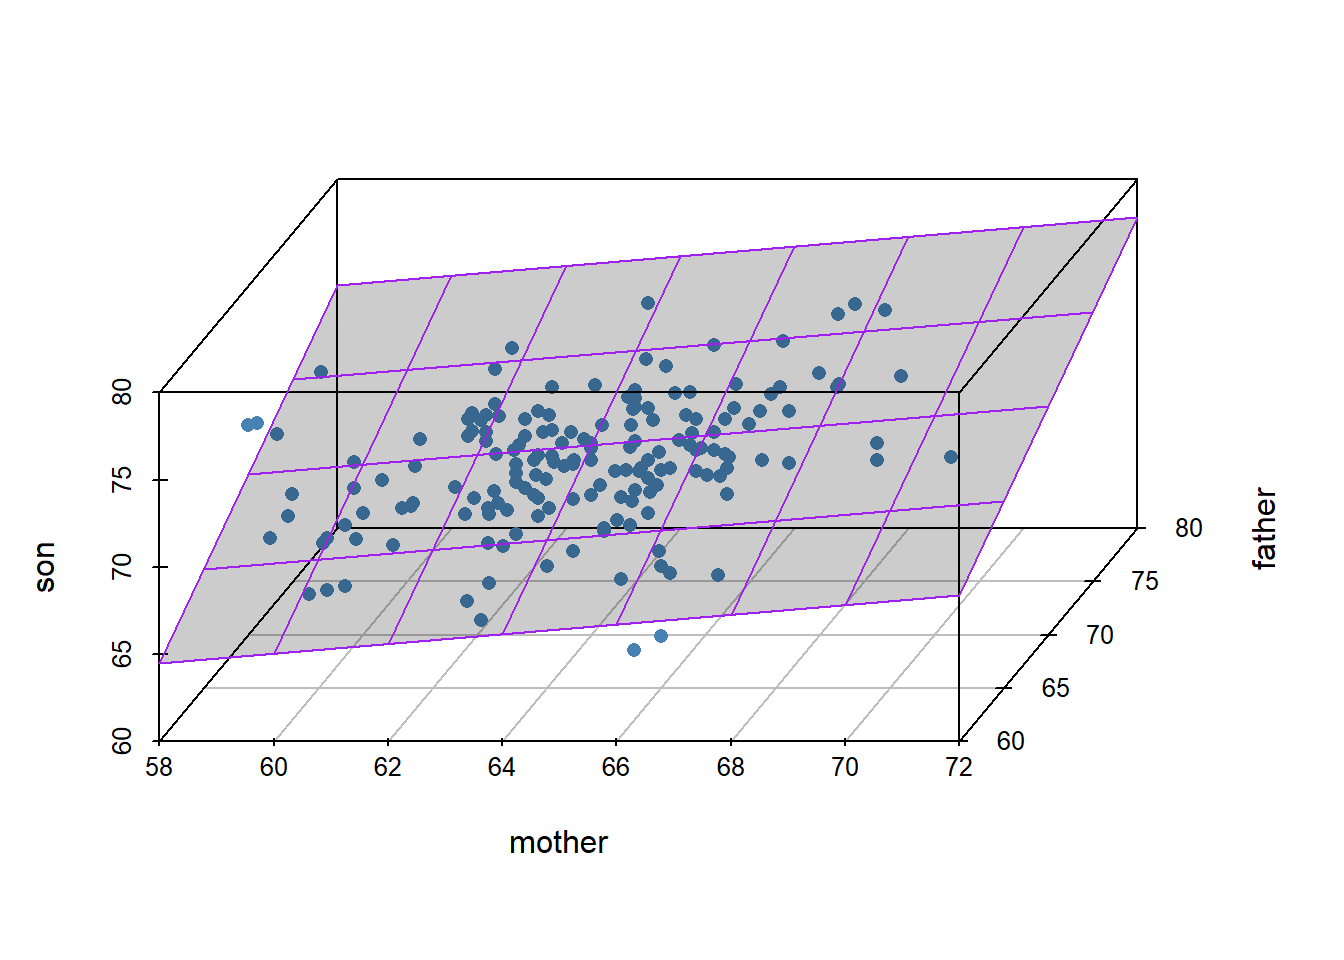
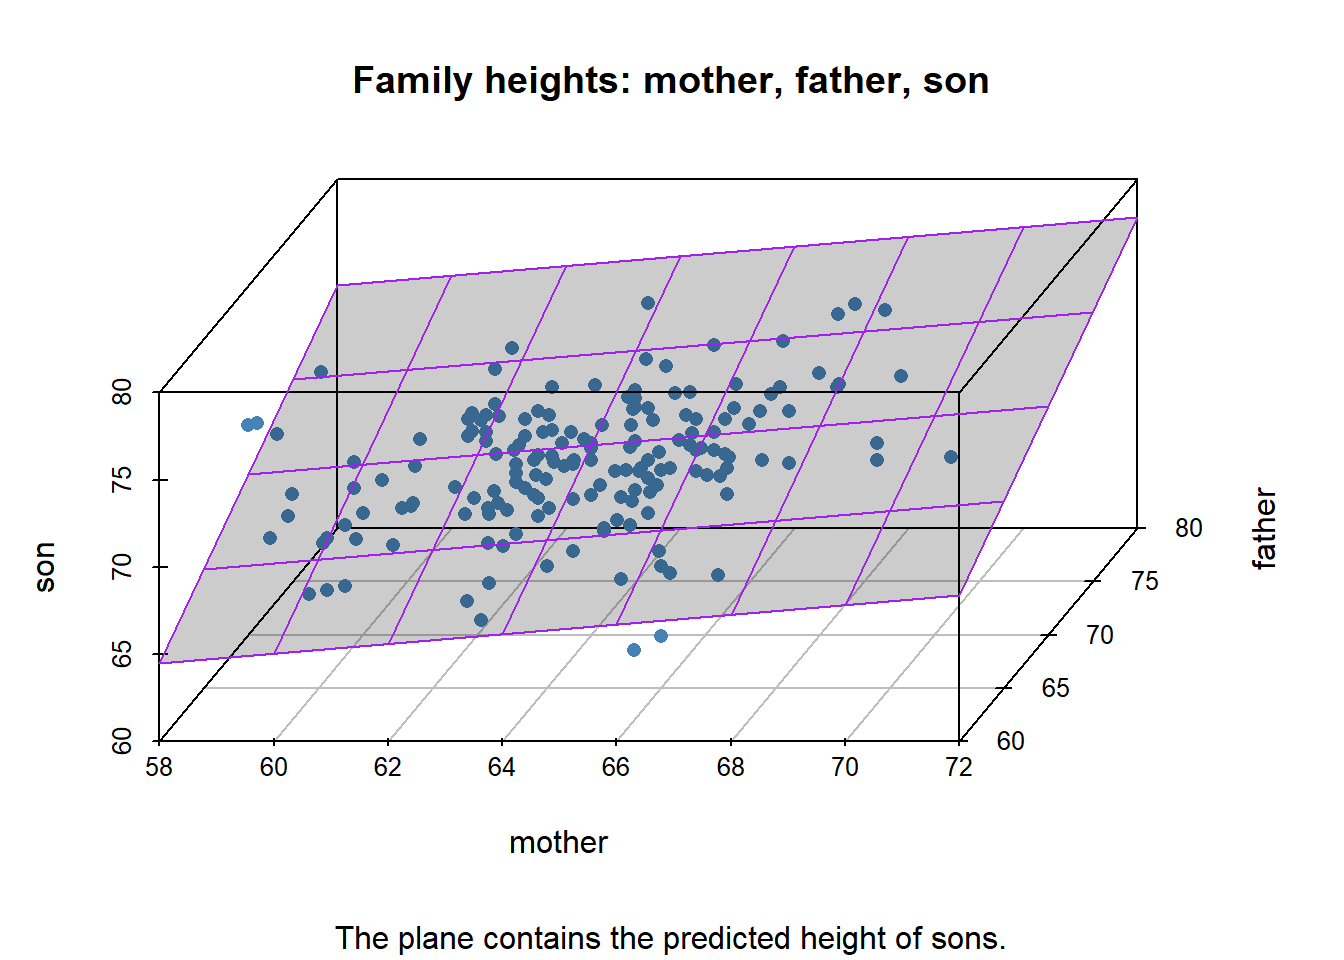
New material in section 6.1.3: Geometry.

Changed region(s): [[0.25, 0.0625, 0.75, 0.125], [0.25, 0.9688, 0.75, 1.0]]

diff --git a/_book/la-intro.html b/_book/la-intro.html
@@ -392,7 +392,7 @@ window.Quarto = {
     <div>
     <div class="quarto-title-meta-heading">Published</div>
     <div class="quarto-title-meta-contents">
-      <p class="date">23:56 Tue 21-Oct-2025</p>
+      <p class="date">10:20 Wed 22-Oct-2025</p>
     </div>
   </div>
   
@@ -405,7 +405,7 @@ window.Quarto = {
 
 
 <hr>
-<p>Vectors and matrices are the central objects of linear algebra. And central to data science and machine learning is the notion of a <em>data matrix</em>, in which each row is composed of different types of values that represent a single case of data. For example, a single row of a data matrix might represent the recorded characteristics of an individual participant, item, or unit in some study. In contrast, each column (known as a <em>feature vector</em> or <em>data variable</em>) represents multiple instances of just one of these prescribed types of values. <a href="#fn1" class="footnote-ref" id="fnref1" role="doc-noteref"><sup>1</sup></a> Let’s consider some examples.</p>
+<p>Vectors and matrices are the central objects of linear algebra. And central to data science and machine learning is the notion of a <em>data matrix</em>, in which each row is composed of different types of values that represent a single case of data. For example, a single row of a data matrix might represent the recorded characteristics of an individual participant, item, or unit in some study. In contrast, each column (known as a <em>feature vector</em> or <em>data variable</em>) represents multiple instances of just one of these prescribed types of value. <a href="#fn1" class="footnote-ref" id="fnref1" role="doc-noteref"><sup>1</sup></a> Let’s consider some examples.</p>
 <section id="data-examples" class="level2" data-number="6.1">
 <h2 data-number="6.1" class="anchored" data-anchor-id="data-examples"><span class="header-section-number">6.1</span> Data Examples</h2>
 <section id="heights-of-parents-and-oldest-child" class="level3" data-number="6.1.1">
@@ -416,12 +416,12 @@ window.Quarto = {
 <div id="tbl-galton-3d" class="cell quarto-float quarto-figure quarto-figure-center anchored">
 <figure class="quarto-float quarto-float-tbl figure">
 <figcaption class="quarto-float-caption-top quarto-float-caption quarto-float-tbl" id="tbl-galton-3d-caption-0ceaefa1-69ba-4598-a22c-09a6ac19f8ca">
-Table&nbsp;6.1: Galton’s heights in inches of (father, mother, oldest child)
+Table&nbsp;6.1: Family heights in inches: father, mother, oldest child
 </figcaption>
 <div aria-describedby="tbl-galton-3d-caption-0ceaefa1-69ba-4598-a22c-09a6ac19f8ca">
 <div class="cell-output-display">
 <table class="do-not-create-environment cell caption-top table table-sm table-striped small">
-<caption>Heights of (father, mother, oldest child)</caption>
+<caption>Family heights: father, mother, oldest child</caption>
 <thead>
 <tr class="header">
 <th style="text-align: left;">family</th>
@@ -484,13 +484,13 @@ Table&nbsp;6.1: Galton’s heights in inches of (father, mother, oldest child)
 <p>The figure below represents all the families, with the gender of the oldest child distinguished by color: red for daughters and blue for sons.</p>
 <div class="cell">
 <div class="cell-output-display">
-<div id="fig-g-mfc-scat3d" class="quarto-float quarto-figure quarto-figure-center anchored">
+<div id="fig-mfc-scat3d" class="quarto-float quarto-figure quarto-figure-center anchored">
 <figure class="quarto-float quarto-float-fig figure">
-<div aria-describedby="fig-g-mfc-scat3d-caption-0ceaefa1-69ba-4598-a22c-09a6ac19f8ca">
-<img src="la-intro_files/figure-html/fig-g-mfc-scat3d-1.png" class="img-fluid figure-img" width="672">
+<div aria-describedby="fig-mfc-scat3d-caption-0ceaefa1-69ba-4598-a22c-09a6ac19f8ca">
+<img src="la-intro_files/figure-html/fig-mfc-scat3d-1.png" class="img-fluid figure-img" width="672">
 </div>
-<figcaption class="quarto-float-caption-bottom quarto-float-caption quarto-float-fig" id="fig-g-mfc-scat3d-caption-0ceaefa1-69ba-4598-a22c-09a6ac19f8ca">
-Figure&nbsp;6.1: (mother, father, child) heights, with daughters shown in red
+<figcaption class="quarto-float-caption-bottom quarto-float-caption quarto-float-fig" id="fig-mfc-scat3d-caption-0ceaefa1-69ba-4598-a22c-09a6ac19f8ca">
+Figure&nbsp;6.1: Height of oldest child: daughters (red), sons (blue)
 </figcaption>
 </figure>
 </div>
@@ -512,16 +512,16 @@ Figure&nbsp;6.1: (mother, father, child) heights, with daughters shown in red
   f &amp;= \text{height of father}
 \end{align}
 \qquad(6.2)\]</span></span></p>
-<p>This equation represents a plane in 3-dimensional space. Using least-squares regression to estimate the coefficients <span class="math inline">\((\beta_0, \beta_m, \beta_f)\)</span>, we obtain a plane (<a href="#fig-g-mfs-scat3d" class="quarto-xref">Figure&nbsp;<span>6.2</span></a>) that gives the best linear approximation <span class="math inline">\((\hat{s})\)</span> to the son’s height for a given pair of parent heights <span class="math inline">\((m, f)\)</span>. <a href="#fn2" class="footnote-ref" id="fnref2" role="doc-noteref"><sup>2</sup></a></p>
+<p>Each set of coefficient values determines some plane in 3-dimensional space. The coefficients <span class="math inline">\((\hat{\beta}_0, \hat{\beta}_m, \hat{\beta}_f)\)</span> obtained by linear regression determines the plane (<a href="#fig-mfs-scat3d" class="quarto-xref">Figure&nbsp;<span>6.2</span></a>) that gives the best linear approximation <span class="math inline">\((\hat{s})\)</span> to the son’s height for a given pair of parent heights <span class="math inline">\((m, f)\)</span>. <a href="#fn2" class="footnote-ref" id="fnref2" role="doc-noteref"><sup>2</sup></a></p>
 <div class="cell">
 <div class="cell-output-display">
-<div id="fig-g-mfs-scat3d" class="quarto-float quarto-figure quarto-figure-center anchored">
+<div id="fig-mfs-scat3d" class="quarto-float quarto-figure quarto-figure-center anchored">
 <figure class="quarto-float quarto-float-fig figure">
-<div aria-describedby="fig-g-mfs-scat3d-caption-0ceaefa1-69ba-4598-a22c-09a6ac19f8ca">
-<img src="la-intro_files/figure-html/fig-g-mfs-scat3d-1.png" class="img-fluid figure-img" width="672">
+<div aria-describedby="fig-mfs-scat3d-caption-0ceaefa1-69ba-4598-a22c-09a6ac19f8ca">
+<img src="la-intro_files/figure-html/fig-mfs-scat3d-1.png" class="img-fluid figure-img" width="672">
 </div>
-<figcaption class="quarto-float-caption-bottom quarto-float-caption quarto-float-fig" id="fig-g-mfs-scat3d-caption-0ceaefa1-69ba-4598-a22c-09a6ac19f8ca">
-Figure&nbsp;6.2: Observed (point) and predicted (plane) height of son given (mother, father) heights
+<figcaption class="quarto-float-caption-bottom quarto-float-caption quarto-float-fig" id="fig-mfs-scat3d-caption-0ceaefa1-69ba-4598-a22c-09a6ac19f8ca">
+Figure&nbsp;6.2: Son’s height given (mother, father) heights: predicted (plane) and observed (point)
 </figcaption>
 </figure>
 </div>
@@ -1034,7 +1034,7 @@ Figure&nbsp;6.3: Example images of handwritten digits from the MNIST dataset
 \end{align}
 \qquad(6.19)\]</span></span></p>
 <p>Each of the elements of <a href="#eq-generic-lm" class="quarto-xref">Equation&nbsp;<span>6.19</span></a> has alternative names, including the following. <a href="#fn8" class="footnote-ref" id="fnref8" role="doc-noteref"><sup>8</sup></a></p>
-<p><span id="eq-generic-lm-2"><span class="math display">\[
+<p><span id="eq-generic-lm-terms"><span class="math display">\[
 \begin{align}
   y &amp;= \text{a } \textit{response, target,} \text{ or } \textit{labeling}  \text{ variable} \\
   X &amp;= \text{columns of } \textit{explanatory, predictor,} \text{ or } \textit{feature}  \text{ variables} \\
@@ -1055,7 +1055,39 @@ Figure&nbsp;6.3: Example images of handwritten digits from the MNIST dataset
 </section>
 <section id="geometry" class="level2" data-number="6.3">
 <h2 data-number="6.3" class="anchored" data-anchor-id="geometry"><span class="header-section-number">6.3</span> Geometry</h2>
-<p>We’ll see the problem from both angles, then focus on where the mathematics actually happens.</p>
+<p>In this section we’ll discuss the example of family heights, in particular the linear regression of the son’s height on the heights of the mother and father. We’ll discuss the geometry of the least-squares solution as a reference point for the remainder of this chapter.</p>
+<p>Here’s the linear regression problem in matrix format.</p>
+<p><span id="eq-generic-lm-mat"><span class="math display">\[
+\begin{align}
+  y_\bullet &amp;= X_{_\bullet, _\bullet} \; \beta_\bullet \; + \; \epsilon_\bullet
+\end{align}
+\qquad(6.21)\]</span></span></p>
+<p>where</p>
+<p><span id="eq-generic-lm-2"><span class="math display">\[
+\begin{align}
+  y_\bullet &amp;= \text{heights of sons } = s_\bullet \\
+  m_\bullet &amp;= \text{heights of mothers } \\
+  f_\bullet &amp;= \text{heights of fathers } \\
+  X_{_\bullet, _\bullet} &amp;= \text{feature matrix} = (1_\bullet, m_\bullet, f_\bullet) \\
+  \beta_\bullet &amp;= \text{coefficient vector} = (\beta_0, \beta_1, \beta_2)^\top \\
+  \epsilon_\bullet &amp;= \text{residual vector}
+\end{align}
+\qquad(6.22)\]</span></span></p>
+<p>Consider the least-squares estimate <span class="math inline">\(\hat{\beta}_\bullet\)</span> and the consequent predicted height <span class="math inline">\(\hat{y}_\bullet\)</span> of the son. <a href="#fig-smf-smpl" class="quarto-xref">Figure&nbsp;<span>6.4</span></a> is based on a random sample of 20 families and shows the heights of sons on the vertical axis, along with their vertical displacement (residual) from the predicted value lying on the plane of predictions.</p>
+<div class="cell">
+<div class="cell-output-display">
+<div id="fig-smf-smpl" class="quarto-float quarto-figure quarto-figure-center anchored">
+<figure class="quarto-float quarto-float-fig figure">
+<div aria-describedby="fig-smf-smpl-caption-0ceaefa1-69ba-4598-a22c-09a6ac19f8ca">
+<img src="la-intro_files/figure-html/fig-smf-smpl-1.png" class="img-fluid figure-img" width="672">
+</div>
+<figcaption class="quarto-float-caption-bottom quarto-float-caption quarto-float-fig" id="fig-smf-smpl-caption-0ceaefa1-69ba-4598-a22c-09a6ac19f8ca">
+Figure&nbsp;6.4: Sampled son heights: residual = observed - predicted
+</figcaption>
+</figure>
+</div>
+</div>
+</div>
 <section id="least-squares-two-perspectives" class="level3" data-number="6.3.1">
 <h3 data-number="6.3.1" class="anchored" data-anchor-id="least-squares-two-perspectives"><span class="header-section-number">6.3.1</span> Least Squares: Two Perspectives</h3>
 </section>

diff --git a/_book/conditioning.html b/_book/conditioning.html
@@ -6,7 +6,7 @@
 
 <meta name="viewport" content="width=device-width, initial-scale=1.0, user-scalable=yes">
 
-<meta name="author" content="Send comments to: Tony T (adthral)">
+<meta name="author" content="Send comments to: Tony T (tthrall)">
 
 <title>2&nbsp; Conditional Distributions – EDA for Machine Learning</title>
 <style>
@@ -205,7 +205,7 @@ window.Quarto = {
           <li class="sidebar-item">
   <div class="sidebar-item-container"> 
   <a href="./la-intro.html" class="sidebar-item-text sidebar-link">
- <span class="menu-text"><span class="chapter-number">6</span>&nbsp; <span class="chapter-title">Some Linear Algebra</span></span></a>
+ <span class="menu-text"><span class="chapter-number">6</span>&nbsp; <span class="chapter-title">Linear Algebra for Fitting Models to Data</span></span></a>
   </div>
 </li>
           <li class="sidebar-item">
@@ -370,7 +370,6 @@ window.Quarto = {
 <header id="title-block-header" class="quarto-title-block default"><nav class="quarto-page-breadcrumbs quarto-title-breadcrumbs d-none d-lg-block" aria-label="breadcrumb"><ol class="breadcrumb"><li class="breadcrumb-item"><a href="./eda.html">Statistics</a></li><li class="breadcrumb-item"><a href="./conditioning.html"><span class="chapter-number">2</span>&nbsp; <span class="chapter-title">Conditional Distributions</span></a></li></ol></nav>
 <div class="quarto-title">
 <h1 class="title"><span id="sec-conditioning" class="quarto-section-identifier"><span class="chapter-number">2</span>&nbsp; <span class="chapter-title">Conditional Distributions</span></span></h1>
-<p class="subtitle lead">Part 1, session 1b of Data Mining Intro</p>
 </div>
 
 
@@ -380,7 +379,7 @@ window.Quarto = {
     <div>
     <div class="quarto-title-meta-heading">Author</div>
     <div class="quarto-title-meta-contents">
-             <p>Send comments to: Tony T (adthral) </p>
+             <p>Send comments to: Tony T (tthrall) </p>
           </div>
   </div>
     
@@ -394,12 +393,6 @@ window.Quarto = {
     
   </div>
   
-<div>
-  <div class="abstract">
-    <div class="block-title">Abstract</div>
-    Review the concepts of conditional distribution, conditional expectation, simple linear regression, statistical independence, entropy, and KL divergence.
-  </div>
-</div>
 
 
 </header>
